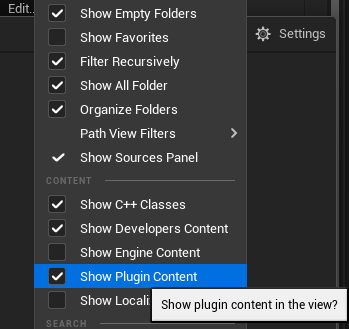
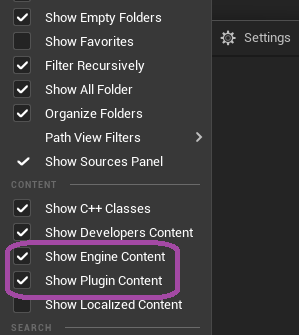
updated quickstart

diff --git a/docs/quickstart.md b/docs/quickstart.md
@@ -12,22 +12,21 @@ nav_order: 2
 ## Quick Start Steps:
 {: .fs-7 .fw-700 }
 > - In the Content Browser, enable the setting to show plugin-content
-> 
 > ![](../assets/images/browser-settings.png)
-> - Locate the GonzoFX actor in the Content Browser
-> 
-> ![](../assets/images/actor-path.png) 
+> - Locate the GonzoFX actor in the Content Browser. 
+> - If installed to the engine only, it will be under Engine/Plugins:
+> ![](../assets/images/browser-plugins.png) 
+>
+> - If installed to project, it will be under Plugins:
+> ![](../assets/images/actor-path.png)
+>  
 > - Place a GonzoFX actor into a level
-> 
 > ![](../assets/images/actor-place.png) 
 > - Default settings will use a timer to always check for Gameplay Tags and setting changes for the various effects.
-> 
 > ![](../assets/images/actor-defaults.png) 
 > - Add Gameplay Tags from under **Gonzo.Effects** to apply the effects
-> 
 > ![](../assets/images/actor-fx-tags.png) 
 > - Individual settings can be found under the **Gonzo Effects** section of the GonzoFX actor.
-> 
 > ![](../assets/images/fx-settings.png) 
 
 ## **Important Information:**
